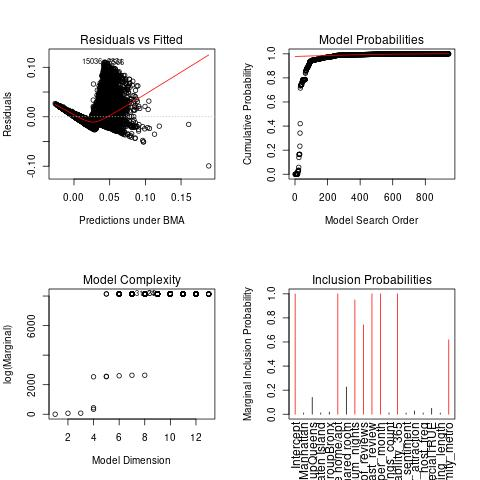
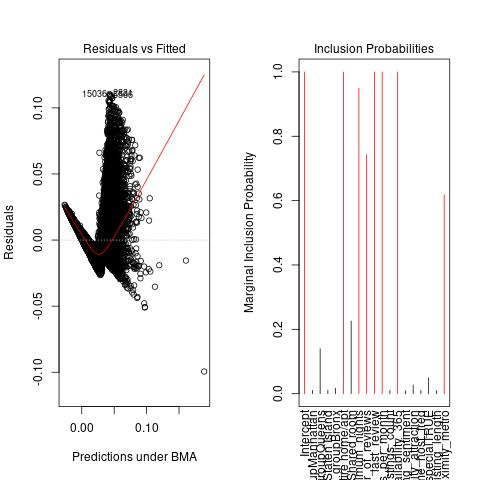
updated bma diagnostic plots and model slides

diff --git a/Deliverables_2/Individual sections/Models.tex b/Deliverables_2/Individual sections/Models.tex
@@ -34,6 +34,10 @@ Two regression models
 	\item BMA
 	\begin{itemize}
 		\item Linear combination of predictors
+		\item Prior: Cauchy
+		\item N.Models: 2^15
+		\item MCMC.iterations: 10^16
+		\item initprobs = "marg-eplogp"
 	\end{itemize}
 \end{itemize}
 \end{frame}
@@ -52,7 +56,7 @@ Two regression models
 	\item Sensitivity Analysis
 	\begin{itemize}
 		\item RF: vary $m$ and minimum $n_{leaf}$.
-		\item BMA: consider different priors (Cauchy prior, g prior)
+		\item BMA: consider different priors (Cauchy prior, g prior for g = 1,5,8,100,500,1000)
 	\end{itemize}
 \end{itemize}
 
